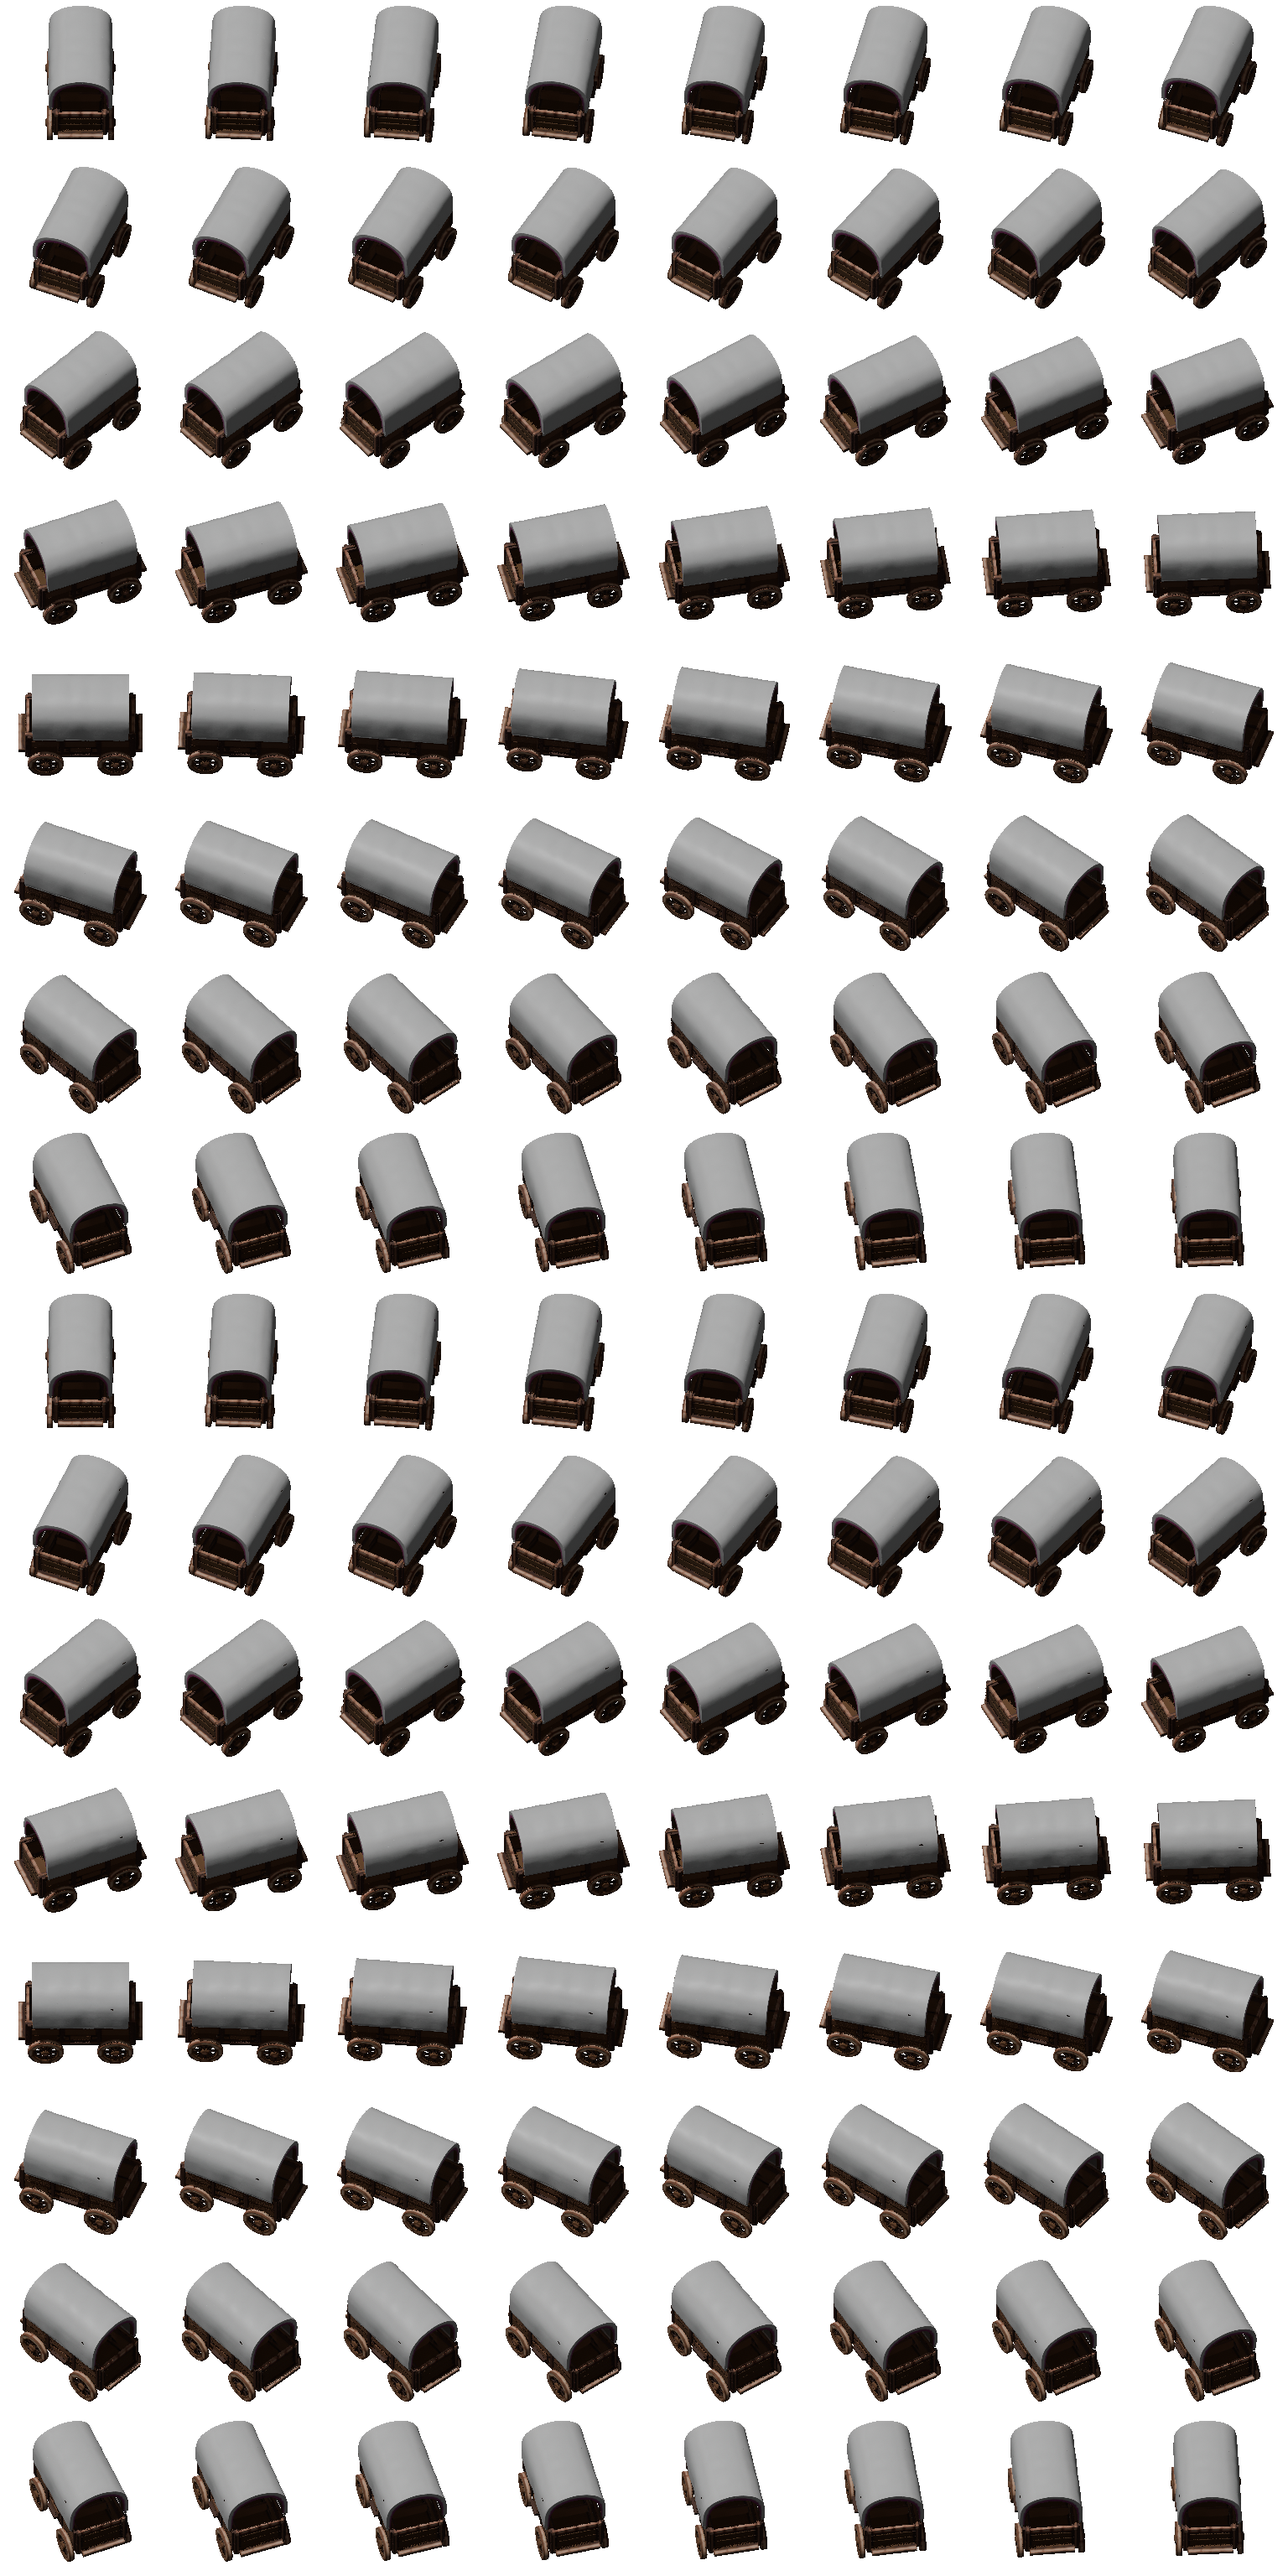
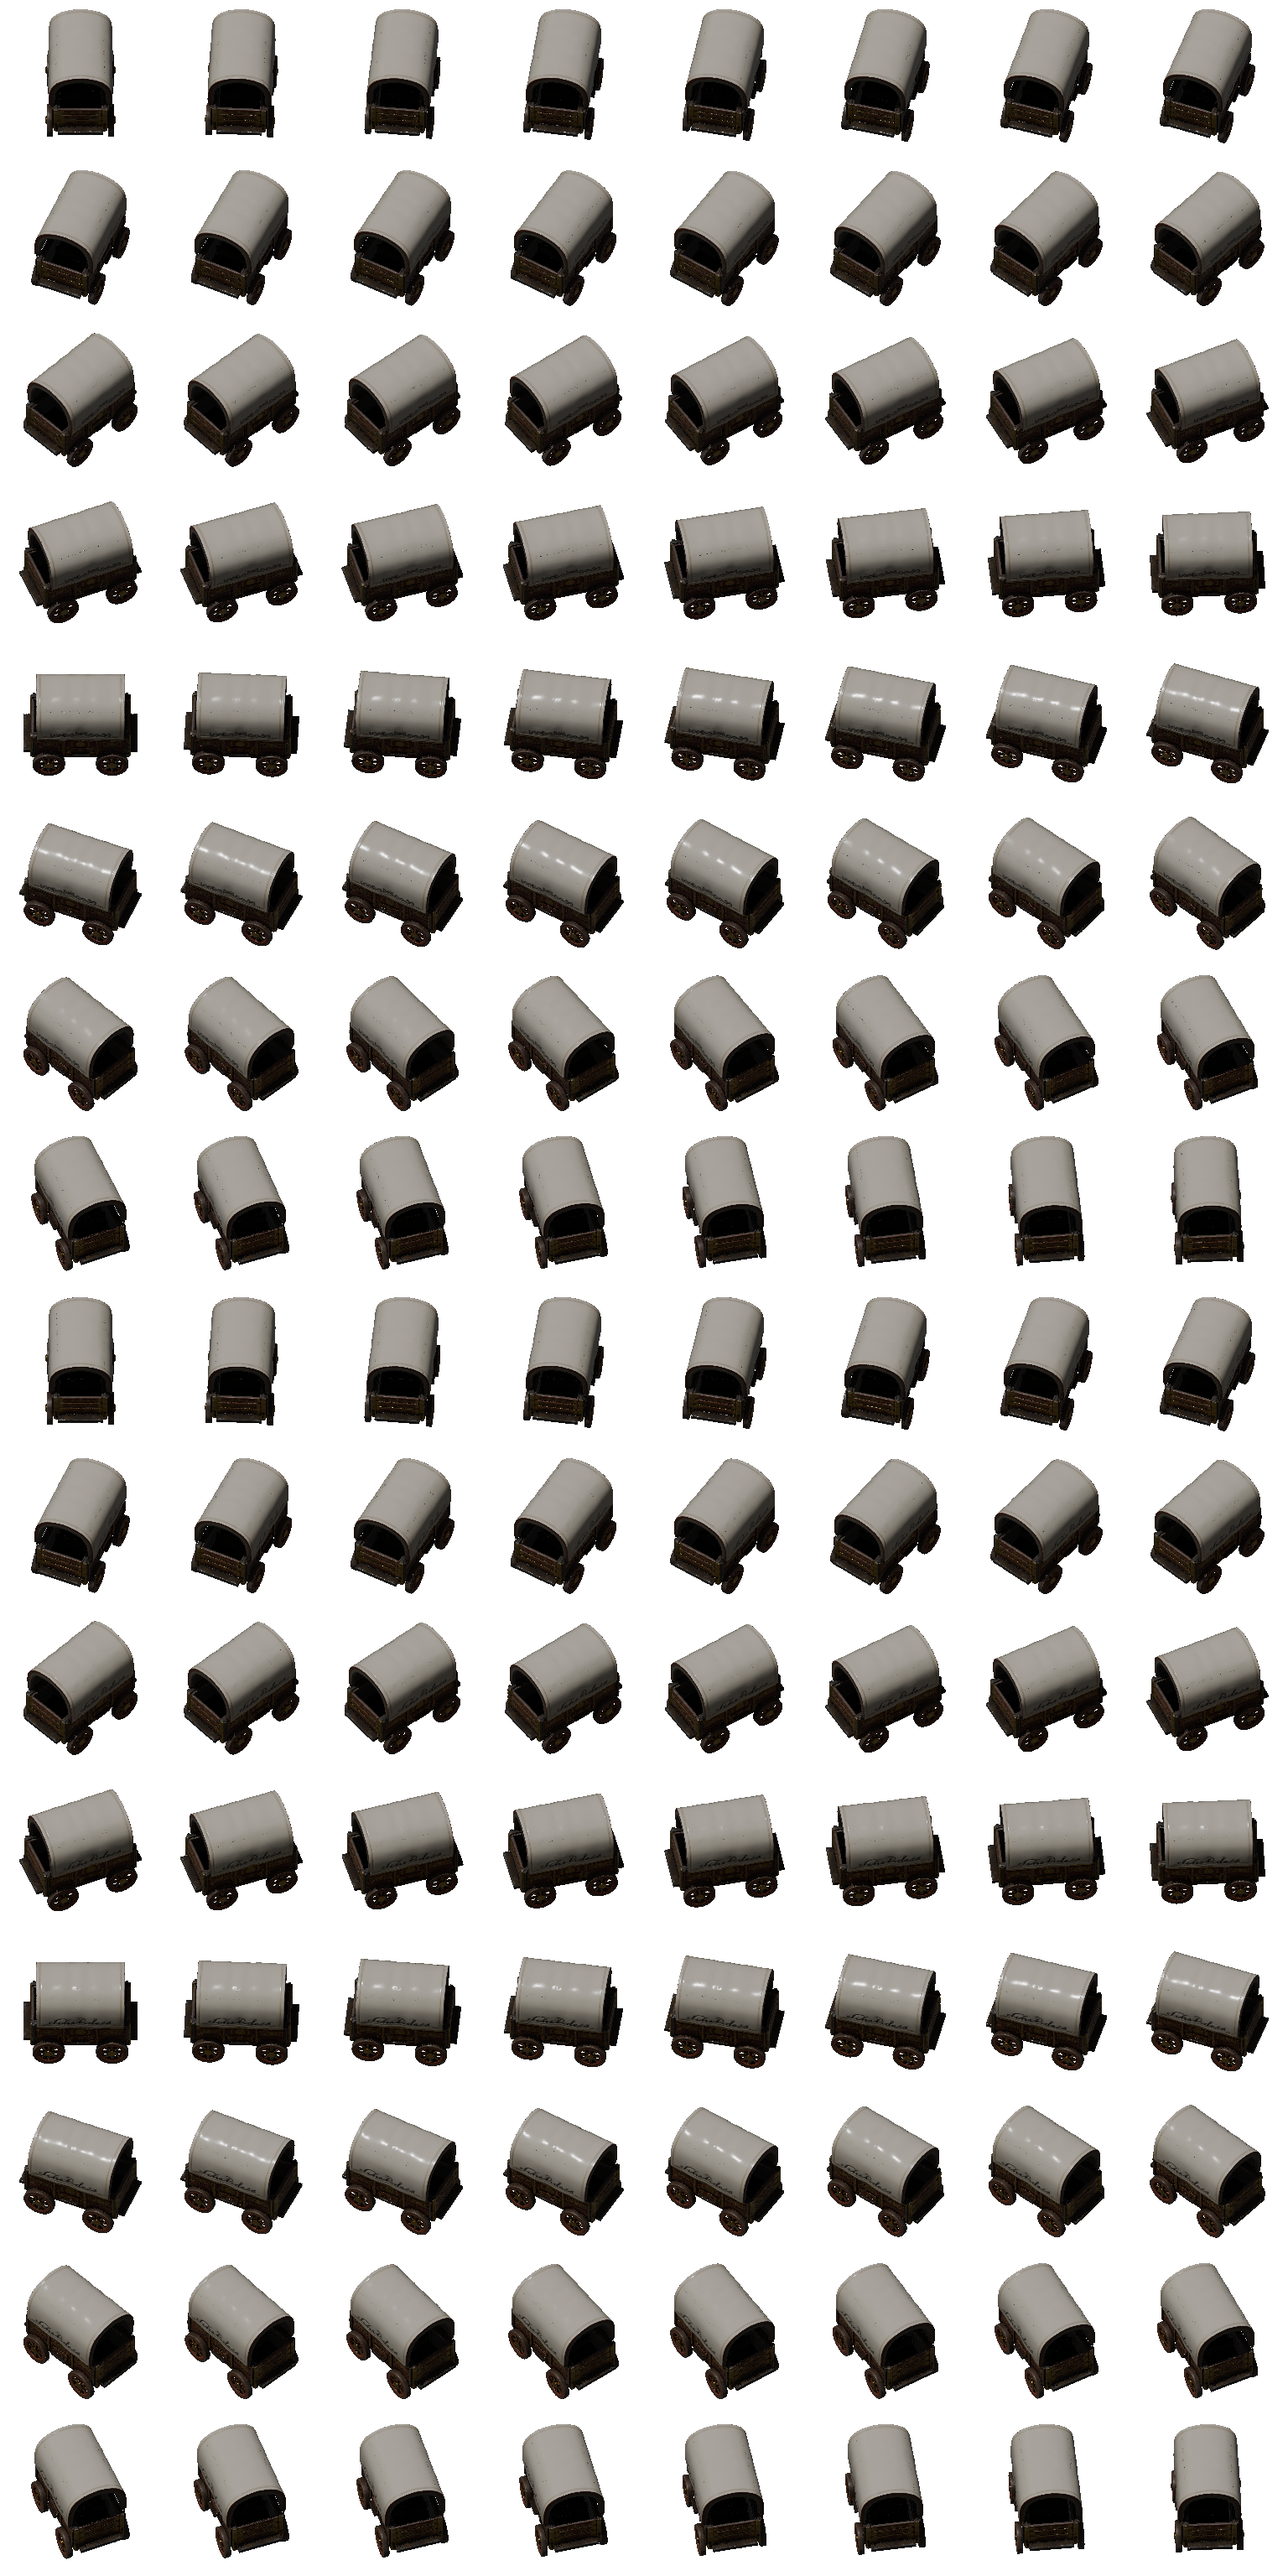
new graphic + color

diff --git a/scripts/create-tint-mask.py b/scripts/create-tint-mask.py
@@ -1,0 +1,150 @@
+#!/usr/bin/env python3
+"""
+Create a tint mask for the carriage engine by keeping only copper/orange-brown parts
+and removing white/gray iron parts, then reducing opacity to 0.3
+"""
+
+from PIL import Image
+import numpy as np
+import sys
+import os
+
+def is_copper_color(r, g, b):
+    """
+    Determine if a pixel is a copper/orange-brown color vs iron/gray color.
+    Copper colors have warm tones with more red than blue.
+    Iron colors are grayscale or cool-toned with balanced RGB or more blue.
+    """
+    # Skip very dark pixels (shadows/black) - they're not part of the mask
+    if r < 30 and g < 30 and b < 30:
+        return False
+    
+    # Copper colors have characteristics:
+    # - Red channel is higher than blue
+    # - Some warmth (red + green > blue)
+    # - Not grayscale (channels have variation)
+    
+    # Check if it's grayscale (iron-like)
+    max_channel = max(r, g, b)
+    min_channel = min(r, g, b)
+    channel_diff = max_channel - min_channel
+    
+    # If channels are very similar, it's grayscale (iron)
+    if channel_diff < 15:
+        return False
+    
+    # Check for warm tones (copper)
+    # Copper should have: r > b and (r + g) > (b + some threshold)
+    warmth = (r + g * 0.8) - (b * 1.5)
+    
+    if warmth > 10 and r > b:
+        return True
+    
+    return False
+
+def create_tint_mask(input_path, output_path, opacity=0.3, reverse=False):
+    """
+    Create a tint mask by keeping only copper-colored pixels
+    If reverse=True, keeps iron parts and removes copper parts instead
+    """
+    print(f"Loading image: {input_path}")
+    if reverse:
+        print("Reverse mode: keeping iron parts, removing copper parts")
+    img = Image.open(input_path)
+    
+    # Convert to RGBA if not already
+    if img.mode != 'RGBA':
+        img = img.convert('RGBA')
+    
+    # Convert to numpy array for processing
+    img_array = np.array(img)
+    
+    # Create output array (start with copy)
+    output_array = np.copy(img_array)
+    
+    # Get dimensions
+    height, width = img_array.shape[:2]
+    
+    print(f"Processing {width}x{height} image...")
+    
+    # Process each pixel
+    pixels_kept = 0
+    pixels_removed = 0
+    
+    for y in range(height):
+        for x in range(width):
+            r, g, b, a = img_array[y, x]
+            
+            # If pixel is already transparent, keep it transparent
+            if a == 0:
+                continue
+            
+            # Check if this is a copper color
+            is_copper = is_copper_color(r, g, b)
+            
+            # Determine if we should keep this pixel based on reverse flag
+            should_keep = is_copper if not reverse else not is_copper
+            
+            if should_keep:
+                # Convert to grayscale (preserve luminosity/tone) and set opacity
+                # Use standard luminosity formula
+                gray = int(0.299 * r + 0.587 * g + 0.114 * b)
+                output_array[y, x, 0] = gray  # R
+                output_array[y, x, 1] = gray  # G
+                output_array[y, x, 2] = gray  # B
+                output_array[y, x, 3] = int(a * opacity)  # A
+                pixels_kept += 1
+            else:
+                # Remove unwanted colors (make transparent)
+                output_array[y, x, 3] = 0
+                pixels_removed += 1
+    
+    if reverse:
+        print(f"Pixels kept (iron): {pixels_kept}")
+        print(f"Pixels removed (copper): {pixels_removed}")
+    else:
+        print(f"Pixels kept (copper): {pixels_kept}")
+        print(f"Pixels removed (iron): {pixels_removed}")
+    
+    # Convert back to image
+    output_img = Image.fromarray(output_array, 'RGBA')
+    
+    # Save the result
+    print(f"Saving mask to: {output_path}")
+    output_img.save(output_path, 'PNG')
+    print("Done!")
+
+def main():
+    if len(sys.argv) < 2:
+        print("Usage: python create-tint-mask.py <input_image> [output_image] [opacity] [--reverse]")
+        print("Example: python create-tint-mask.py ../graphics/entity/carriage-engine/main.png")
+        print("Options:")
+        print("  --reverse    Keep iron parts and remove copper parts instead")
+        sys.exit(1)
+    
+    input_path = sys.argv[1]
+    
+    # Check for --reverse flag
+    reverse = '--reverse' in sys.argv
+    if reverse:
+        sys.argv.remove('--reverse')
+    
+    # Default output path
+    if len(sys.argv) >= 3:
+        output_path = sys.argv[2]
+    else:
+        # Generate output path by adding "-mask" before extension
+        base, ext = os.path.splitext(input_path)
+        suffix = "mask"
+        output_path = f"{base}{suffix}{ext}"
+    
+    # Optional opacity parameter
+    opacity = 0.3
+    if len(sys.argv) >= 4:
+        opacity = float(sys.argv[3])
+    
+    create_tint_mask(input_path, output_path, opacity, reverse)
+
+if __name__ == "__main__":
+    main()
+
